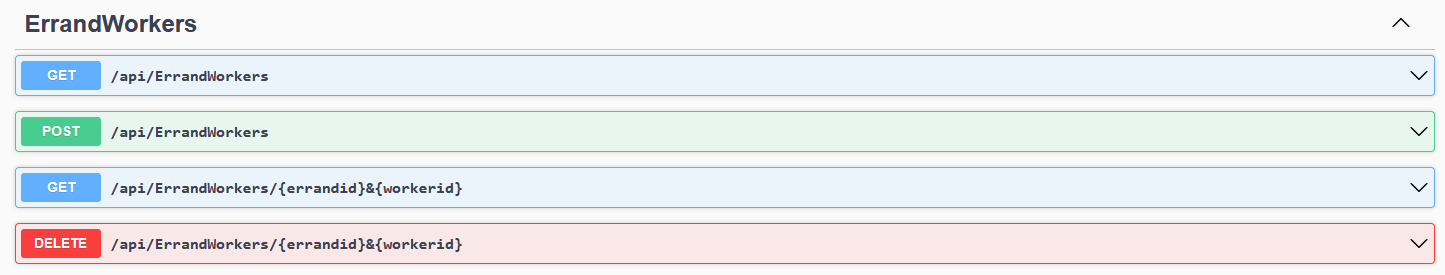
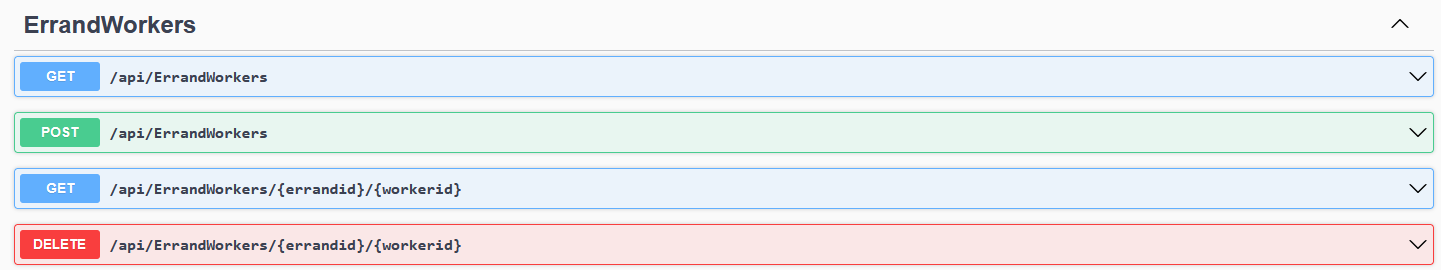
Edit method names.

diff --git a/REST_API_Project/Controllers/ErrandWorkersController.cs b/REST_API_Project/Controllers/ErrandWorkersController.cs
@@ -25,11 +25,11 @@ namespace REST_API_Project.Controllers
         [HttpGet]
         public async Task<ActionResult<IEnumerable<ErrandWorkerDTO>>> GetErrandWorkers()
         {
-            return await _context.ErrandWorkers.Select(ew => ErrandWorker_To_ErrandWorkerDTO(ew)).ToListAsync();
+            return await _context.ErrandWorkers.Select(ew => ErrandWorkerToErrandWorkerDto(ew)).ToListAsync();
         }
 
         // GET: api/ErrandWorkers/5
-        [HttpGet("{errandid}&{workerid}")]
+        [HttpGet("{errandid}/{workerid}")]
         public async Task<ActionResult<ErrandWorkerDTO>> GetErrandWorker(int errandid, int workerid)
         {
             var errandWorker = await _context.ErrandWorkers
@@ -41,7 +41,7 @@ namespace REST_API_Project.Controllers
                 return NotFound();
             }
 
-            return ErrandWorker_To_ErrandWorkerDTO(errandWorker);
+            return ErrandWorkerToErrandWorkerDto(errandWorker);
         }
 
         // POST: api/ErrandWorkers
@@ -58,7 +58,7 @@ namespace REST_API_Project.Controllers
             }
 
             // ErrandWorkerDTO to ErrandWorker
-            _context.ErrandWorkers.Add(ErrandWorkerDTO_To_ErrandWorker(errandWorkerDTO));
+            _context.ErrandWorkers.Add(ErrandWorkerDtoToErrandWorker(errandWorkerDTO));
 
             try
             {
@@ -82,7 +82,7 @@ namespace REST_API_Project.Controllers
         }
 
         // DELETE: api/ErrandWorkers/5&4
-        [HttpDelete("{errandid}&{workerid}")]
+        [HttpDelete("{errandid}/{workerid}")]
         public async Task<IActionResult> DeleteErrandWorker(int errandid, int workerid)
         {
             var errandWorker = await _context.ErrandWorkers
@@ -105,13 +105,13 @@ namespace REST_API_Project.Controllers
             return _context.ErrandWorkers.Any(ew => ew.ErrandId == errandWorkerDTO.ErrandId && ew.WorkerId == errandWorkerDTO.WorkerId);
         }
 
-        private static ErrandWorker ErrandWorkerDTO_To_ErrandWorker(ErrandWorkerDTO errandWorkerDTO) => new()
+        private static ErrandWorker ErrandWorkerDtoToErrandWorker(ErrandWorkerDTO errandWorkerDTO) => new()
         {
             ErrandId = errandWorkerDTO.ErrandId,
             WorkerId = errandWorkerDTO.WorkerId
         };
 
-        private static ErrandWorkerDTO ErrandWorker_To_ErrandWorkerDTO(ErrandWorker errandWorker) => new()
+        private static ErrandWorkerDTO ErrandWorkerToErrandWorkerDto(ErrandWorker errandWorker) => new()
         {
             ErrandId = errandWorker.ErrandId,
             WorkerId = errandWorker.WorkerId

diff --git a/REST_API_Project/Controllers/ErrandsController.cs b/REST_API_Project/Controllers/ErrandsController.cs
@@ -26,7 +26,7 @@ namespace REST_API_Project.Controllers
         public async Task<ActionResult<IEnumerable<ErrandDTO>>> GetErrands()
         {
             return await _context.Errands
-                .Select(errand => Errand_To_ErrandDTO(errand))
+                .Select(errand => ErrandToErrandDto(errand))
                 .ToListAsync();
         }
 
@@ -41,7 +41,7 @@ namespace REST_API_Project.Controllers
                 return NotFound();
             }
 
-            return Errand_To_ErrandDTO(errand);
+            return ErrandToErrandDto(errand);
         }
 
         // PUT: api/Errands/5
@@ -88,14 +88,14 @@ namespace REST_API_Project.Controllers
         [HttpPost]
         public async Task<ActionResult<ErrandDTO>> PostErrand(ErrandDTO errandDTO)
         {
-            var errand = ErrandDTO_To_Errand(errandDTO);
+            var errand = ErrandDtoToErrand(errandDTO);
 
             _context.Errands.Add(errand);
             await _context.SaveChangesAsync();
 
             return CreatedAtAction(nameof(GetErrand),
                 new { id = errand.Id },
-                Errand_To_ErrandDTO(errand));           // Use of method -> shows id created from DB
+                ErrandToErrandDto(errand));           // Use of method -> shows id created from DB
         }
 
         // DELETE: api/Errands/5
@@ -119,7 +119,7 @@ namespace REST_API_Project.Controllers
             return _context.Errands.Any(e => e.Id == id);
         }
 
-        private static ErrandDTO Errand_To_ErrandDTO(Errand errand) => new()
+        private static ErrandDTO ErrandToErrandDto(Errand errand) => new()
         {
             Id = errand.Id,
             Name = errand.Name,
@@ -127,7 +127,7 @@ namespace REST_API_Project.Controllers
             Description = errand.Description
         };
 
-        private static Errand ErrandDTO_To_Errand(ErrandDTO errandDTO) => new()
+        private static Errand ErrandDtoToErrand(ErrandDTO errandDTO) => new()
         {
             Id = errandDTO.Id,
             Name = errandDTO.Name,

diff --git a/REST_API_Project/Controllers/WorkersController.cs b/REST_API_Project/Controllers/WorkersController.cs
@@ -26,7 +26,7 @@ namespace REST_API_Project.Controllers
         public async Task<ActionResult<IEnumerable<WorkerDTO>>> GetWorkers()
         {
             return await _context.Workers
-                .Select(worker => Worker_To_WorkerDTO(worker))
+                .Select(worker => WorkerToWorkerDto(worker))
                 .ToListAsync();
         }
 
@@ -41,7 +41,7 @@ namespace REST_API_Project.Controllers
                 return NotFound();
             }
 
-            return Worker_To_WorkerDTO(worker);
+            return WorkerToWorkerDto(worker);
         }
 
         // PUT: api/Workers/5
@@ -87,14 +87,14 @@ namespace REST_API_Project.Controllers
         [HttpPost]
         public async Task<ActionResult<WorkerDTO>> PostWorker(WorkerDTO workerDTO)
         {
-            var worker = WorkerDTO_To_Worker(workerDTO);
+            var worker = WorkerDtoToWorker(workerDTO);
 
             _context.Workers.Add(worker);
             await _context.SaveChangesAsync();
 
             return CreatedAtAction(nameof(GetWorker), 
                 new { id = worker.Id },
-                Worker_To_WorkerDTO(worker));
+                WorkerToWorkerDto(worker));
         }
 
         // DELETE: api/Workers/5
@@ -118,14 +118,14 @@ namespace REST_API_Project.Controllers
             return _context.Workers.Any(e => e.Id == id);
         }
 
-        private static WorkerDTO Worker_To_WorkerDTO(Worker worker) => new()
+        private static WorkerDTO WorkerToWorkerDto(Worker worker) => new()
         {
             Id = worker.Id,
             Name = worker.Name,
             HireDate = worker.HireDate
         };
 
-        private static Worker WorkerDTO_To_Worker(WorkerDTO workerDTO) => new()
+        private static Worker WorkerDtoToWorker(WorkerDTO workerDTO) => new()
         {
             Id = workerDTO.Id,
             Name = workerDTO.Name,
